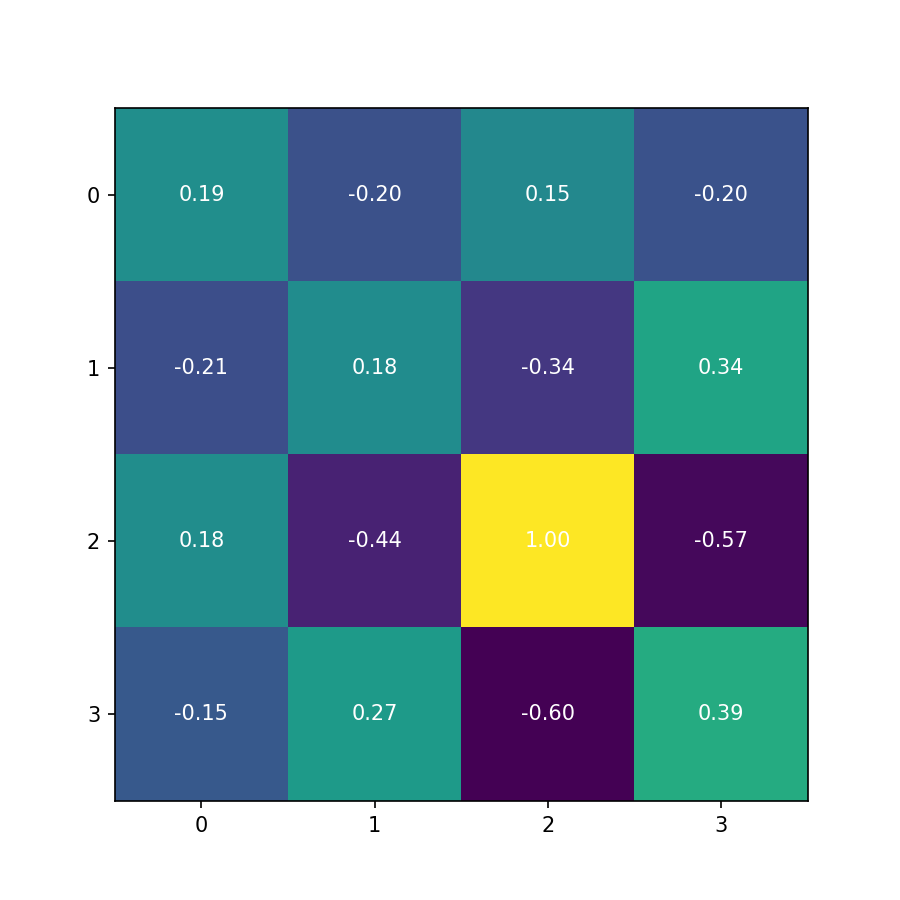
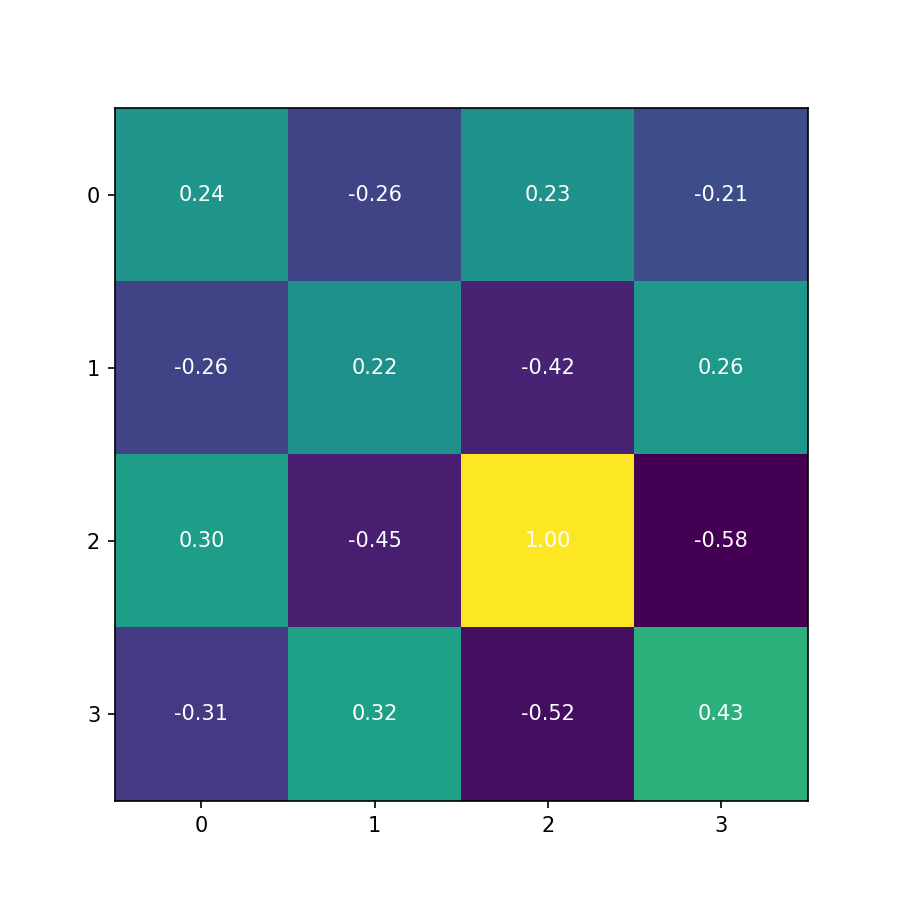
heisenberg 4x4

diff --git a/python/SpinCorrelationSolver.py b/python/SpinCorrelationSolver.py
@@ -94,7 +94,7 @@ class SpinCorrelationSolver(ABC):
 
         return corr_mat
 
-    def solve(self, n_iter: int = 2000) -> None:
+    def solve(self, n_iter: int = 2500) -> None:
         comm = MPI.COMM_WORLD
         rank = comm.Get_rank()
 
